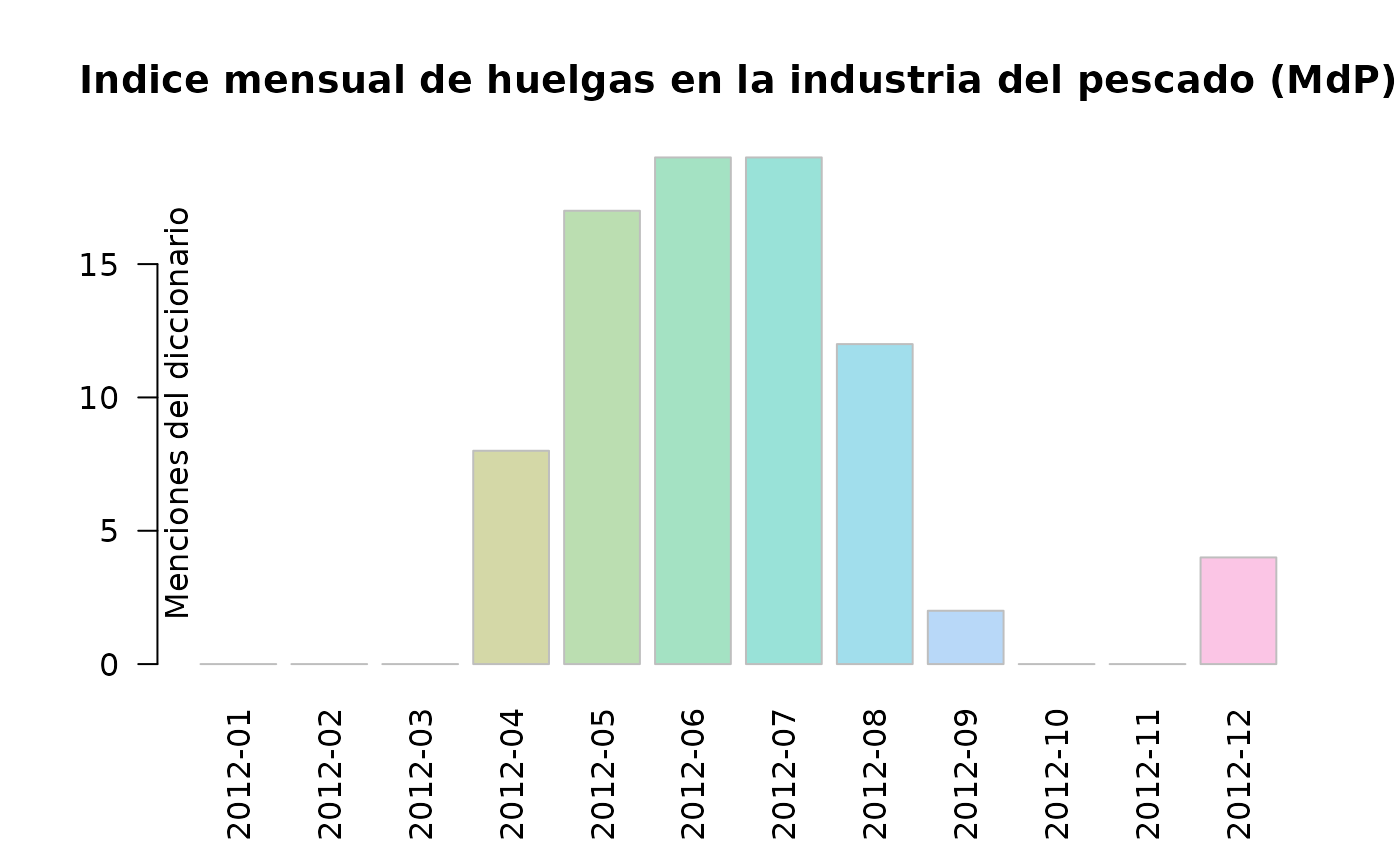
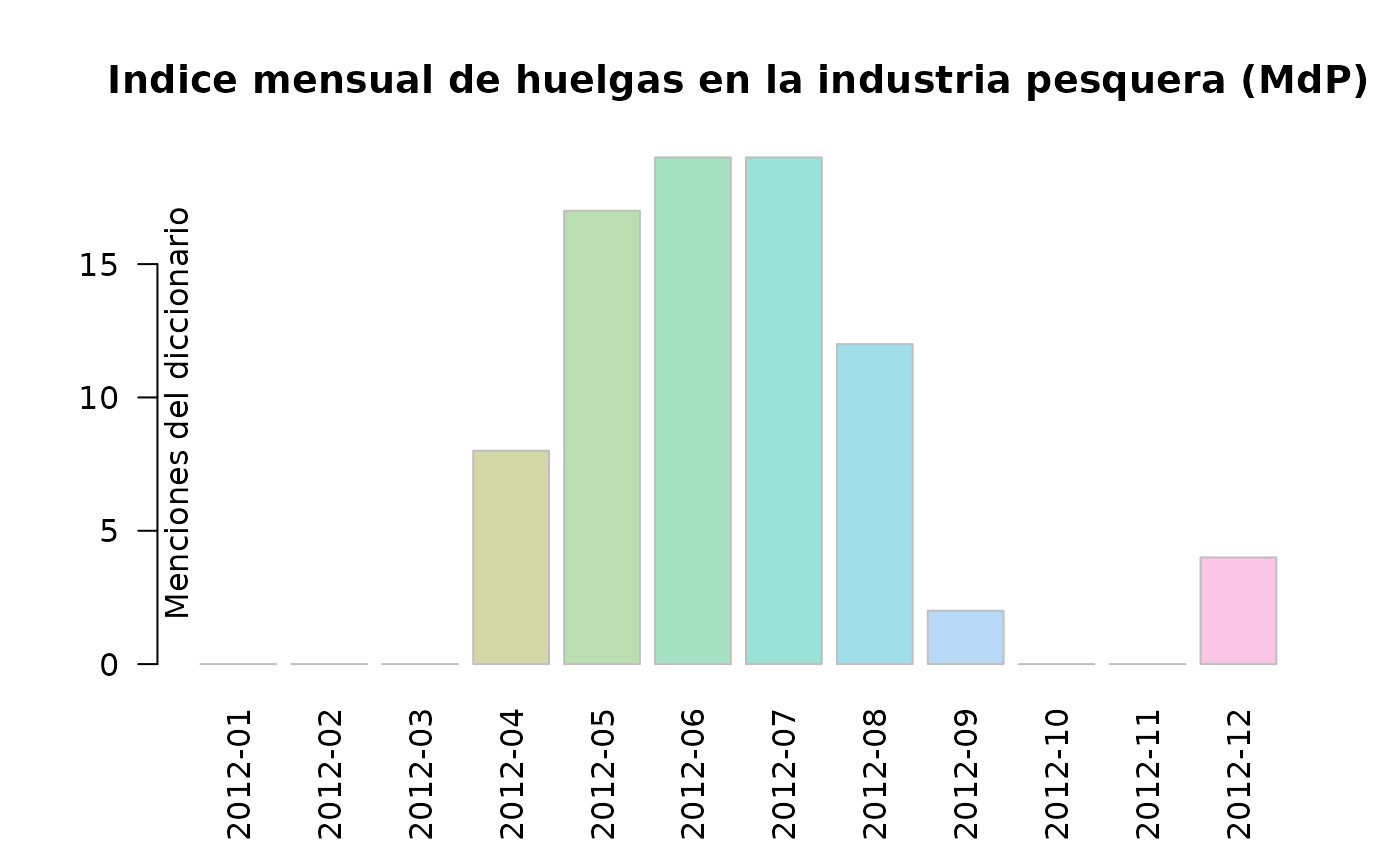
Deploying to gh-pages from @ agusnieto77/ACEP@2047abb40f6ee442f5b2363f7994333c3d4fad38 🚀

Changed region(s): [[0.0614, 0.0624, 1.0, 0.1249]]

diff --git a/articles/conflictividad_soip.html b/articles/conflictividad_soip.html
@@ -82,7 +82,7 @@
                         <h4 data-toc-skip class="author">Agustín
 Nieto</h4>
             
-            <h4 data-toc-skip class="date">2022-11-06</h4>
+            <h4 data-toc-skip class="date">2022-11-07</h4>
       
       <small class="dont-index">Source: <a href="https://github.com/agusnieto77/ACEP/blob/HEAD/vignettes/conflictividad_soip.Rmd" class="external-link"><code>vignettes/conflictividad_soip.Rmd</code></a></small>
       <div class="d-none name"><code>conflictividad_soip.Rmd</code></div>
@@ -93,12 +93,12 @@ Nieto</h4>
 <div class="section level2">
 <h2 id="introducción">Introducción<a class="anchor" aria-label="anchor" href="#introducci%C3%B3n"></a>
 </h2>
-<p>En este artículo desarrollaremos un análisis de la conflictividad
-laboral en la industria pesquera argentina con un enfoque de diccionario
-en base a las funciones del paquete ACEP. En esta oportunidad pondremos
-el foco en la conflictividad laboral protagonizada por el Sindicato
-Obrero de la Industria del Pescado (SOIP) en la ciudad de Mar del Plata
-entre los años 2009 y 2020.</p>
+<p>En este artículo desarrollaremos una introducción al análisis de la
+conflictividad laboral en la industria pesquera argentina con un enfoque
+de diccionario en base a las funciones del paquete ACEP. En esta
+oportunidad pondremos el foco en la conflictividad laboral protagonizada
+por el Sindicato Obrero de la Industria del Pescado (SOIP) en la ciudad
+de Mar del Plata entre los años 2009 y 2020.</p>
 </div>
 <div class="section level2">
 <h2 id="el-corpus-de-notas">El corpus de notas<a class="anchor" aria-label="anchor" href="#el-corpus-de-notas"></a>
@@ -261,8 +261,8 @@ un término que refiere a lxs trabajadorxs del pescado.</p>
 <h2 id="serie-temporal-de-índices">Serie temporal de índices<a class="anchor" aria-label="anchor" href="#serie-temporal-de-%C3%ADndices"></a>
 </h2>
 <p>En esta parte del código usaremos la función <code><a href="../reference/acep_rst.html">acep_rst()</a></code>
-para calcular los índices agrupados por mes. Primero construimos la
-serie de tiempo para la conflictividad general.</p>
+para calcular los índices agrupados por año y mes. Primero construimos
+la serie de tiempo para la conflictividad general.</p>
 <div class="sourceCode" id="cb4"><pre class="downlit sourceCode r">
 <code class="sourceCode R"><span><span class="co"># Calculamos el índice anual de conflictividad general en el</span></span>
 <span><span class="co"># ámbito de la industrial del procesado de pescado en tierra</span></span>
@@ -382,7 +382,7 @@ la conflictividad huelguística.</p>
 <code><a href="../reference/acep_plot_st.html">acep_plot_st()</a></code> y <code><a href="../reference/acep_plot_rst.html">acep_plot_rst()</a></code> para
 visualizar la variación anual de la conflictividad general protagonizada
 por lxs trabajadorxs del pescado entre marzo de 2009 y diciembre de
-2020. También visualizaremos la variación mensual durante al año 2012,
+2020. También visualizaremos la variación mensual durante el año 2012,
 el más conflictivo de período bajo análisis.</p>
 <div class="sourceCode" id="cb7"><pre class="downlit sourceCode r">
 <code class="sourceCode R"><span><span class="co"># Visualizaremos el índice de conflictividad general </span></span>
@@ -390,7 +390,7 @@ el más conflictivo de período bajo análisis.</p>
 <span><span class="fu"><a href="../reference/acep_plot_st.html">acep_plot_st</a></span><span class="op">(</span></span>
 <span> <span class="va">conf_gral_anio</span><span class="op">$</span><span class="va">st</span>,</span>
 <span> <span class="va">conf_gral_anio</span><span class="op">$</span><span class="va">frecm</span>,</span>
-<span> t <span class="op">=</span> <span class="st">"Indice anual de conflictividad en la industria del pescado (MdP)"</span>,</span>
+<span> t <span class="op">=</span> <span class="st">"Indice anual de conflictividad en la industria pesquera (MdP)"</span>,</span>
 <span> ejey <span class="op">=</span> <span class="st">"Menciones del diccionario"</span>,</span>
 <span> etiquetax <span class="op">=</span> <span class="st">"vertical"</span></span>
 <span>             <span class="op">)</span></span></code></pre></div>
@@ -405,7 +405,7 @@ el más conflictivo de período bajo análisis.</p>
 <span><span class="fu"><a href="../reference/acep_plot_st.html">acep_plot_st</a></span><span class="op">(</span></span>
 <span> <span class="va">conf_gral</span><span class="op">$</span><span class="va">st</span>,</span>
 <span> <span class="va">conf_gral</span><span class="op">$</span><span class="va">frecm</span>,</span>
-<span> t <span class="op">=</span> <span class="st">"Indice mensual de conflictividad en la industria del pescado (MdP)"</span>,</span>
+<span> t <span class="op">=</span> <span class="st">"Indice mensual de conflictividad en la industria pesquera (MdP)"</span>,</span>
 <span> ejey <span class="op">=</span> <span class="st">"Menciones del diccionario"</span>,</span>
 <span> etiquetax <span class="op">=</span> <span class="st">"vertical"</span></span>
 <span>             <span class="op">)</span></span></code></pre></div>
@@ -416,16 +416,17 @@ el más conflictivo de período bajo análisis.</p>
 <span><span class="fu"><a href="../reference/acep_plot_st.html">acep_plot_st</a></span><span class="op">(</span></span>
 <span> <span class="va">huelgas</span><span class="op">$</span><span class="va">st</span>,</span>
 <span> <span class="va">huelgas</span><span class="op">$</span><span class="va">frecm</span>,</span>
-<span> t <span class="op">=</span> <span class="st">"Indice mensual de huelgas en la industria del pescado (MdP)"</span>,</span>
+<span> t <span class="op">=</span> <span class="st">"Indice mensual de huelgas en la industria pesquera (MdP)"</span>,</span>
 <span> ejey <span class="op">=</span> <span class="st">"Menciones del diccionario"</span>,</span>
 <span> etiquetax <span class="op">=</span> <span class="st">"vertical"</span></span>
 <span>             <span class="op">)</span></span></code></pre></div>
 <p><img src="conflictividad_soip_files/figure-html/plot02-1.png" width="700"></p>
 <p>Las distintas métricas nos ayudan a identificar al año 2012 como el
-más conflictivo del período en el ámbito de la industria de procesado en
-tierra en al ciudad de Mar del Plata, con epicentro en los meses de
-junio, julio y agosto para la conflictividad general y durante los meses
-de mayo, junio y julio para los movimientos huelguísticos.</p>
+más conflictivo del período en el ámbito de la industria pesquera de
+procesado en tierra en la ciudad de Mar del Plata, con epicentro en los
+meses de junio, julio y agosto para la conflictividad general y con
+epicentro en los meses de mayo, junio y julio para los movimientos
+huelguísticos.</p>
 </div>
 <div class="section level2">
 <h2 id="comentarios-finales">Comentarios finales<a class="anchor" aria-label="anchor" href="#comentarios-finales"></a>
@@ -433,11 +434,12 @@ de mayo, junio y julio para los movimientos huelguísticos.</p>
 <p>A lo largo de este breve tutorial sobre algunas de las funciones del
 paquete ACEP buscamos ejemplificar de qué modo se puede adoptar un
 enfoque de diccionario para realizar un primer análisis exploratorio de
-un corpus de notas periodísticas. Los resultados son alentadores, con la
+un corpus de notas periodísticas. Los resultados son alentadores. Con la
 combinación de distintos diccionarios se pudo identificar la
 temporalidad de la conflictividad protagonizada por lxs obrerxs del
 pescado en la ciudad de Mar del Plata. En próximos artículos avanzaremos
-con otras funciones del paquete ACEP.</p>
+con otras funciones del paquete ACEP para el análisis computacional de
+la conflictividad en la industria pesquera argentina.</p>
 </div>
   </main><aside class="col-md-3"><nav id="toc"><h2>On this page</h2>
     </nav></aside>
